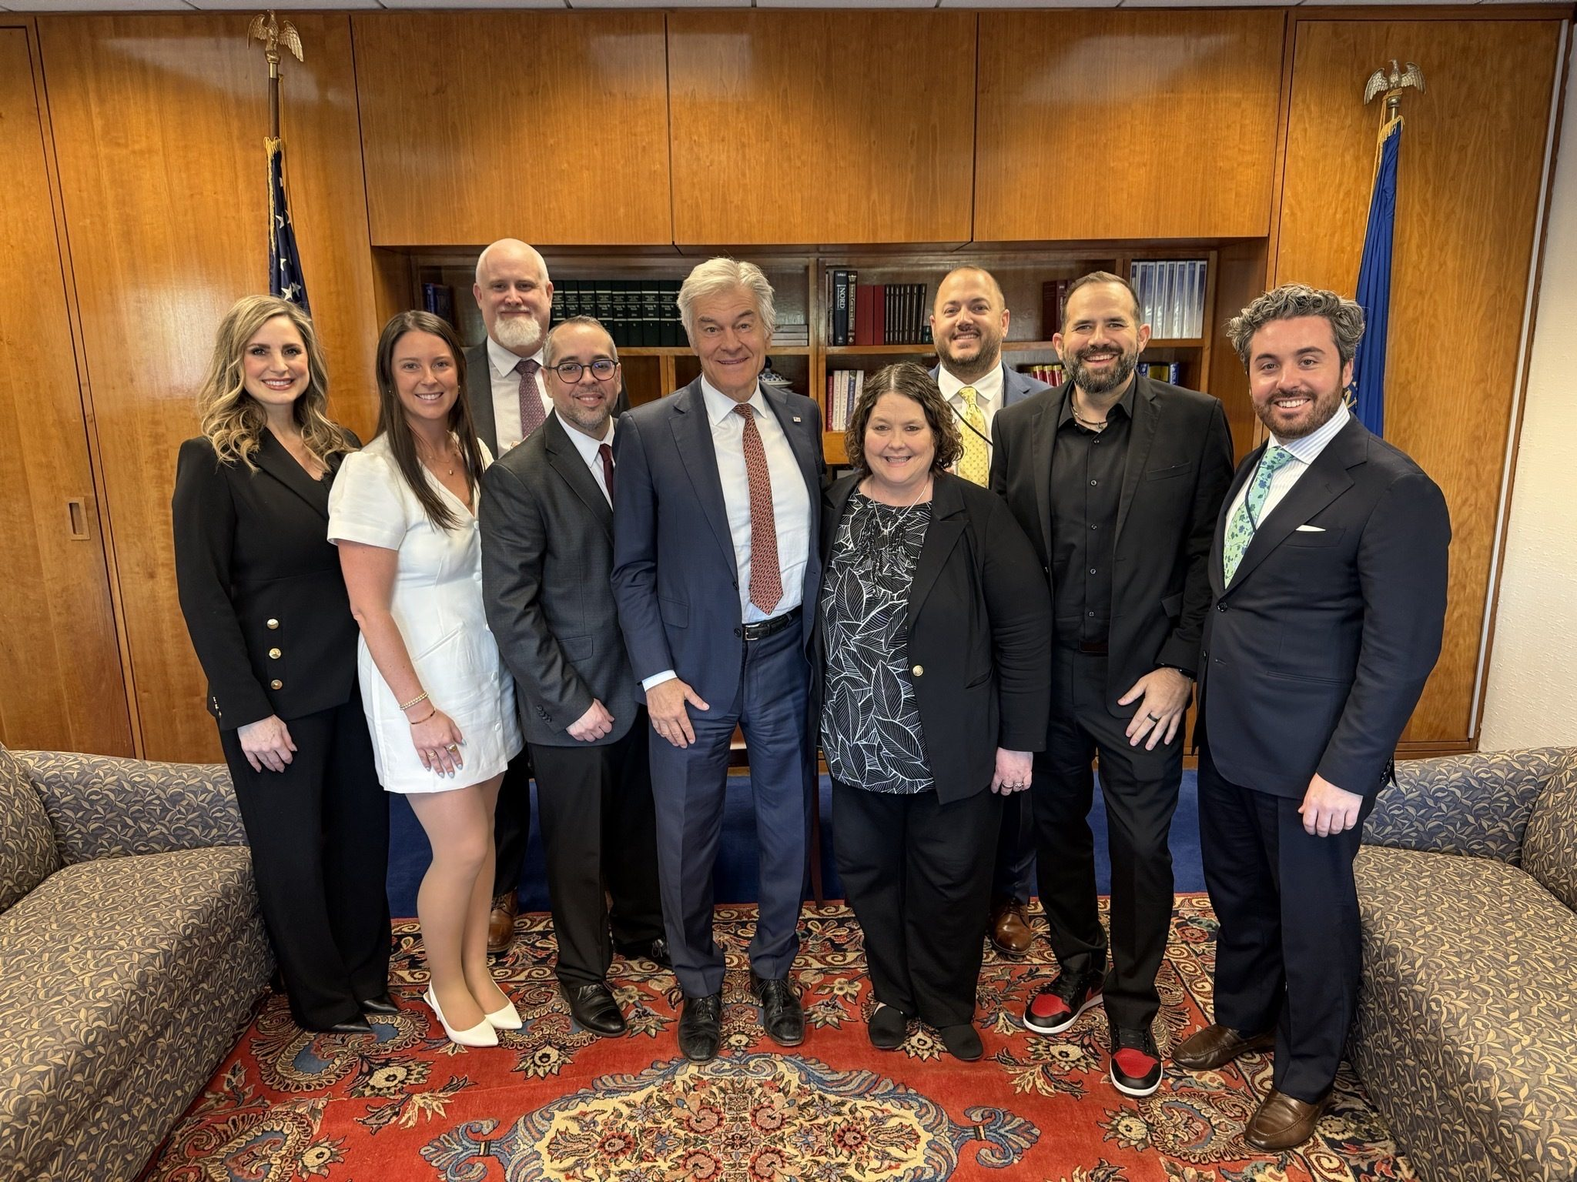
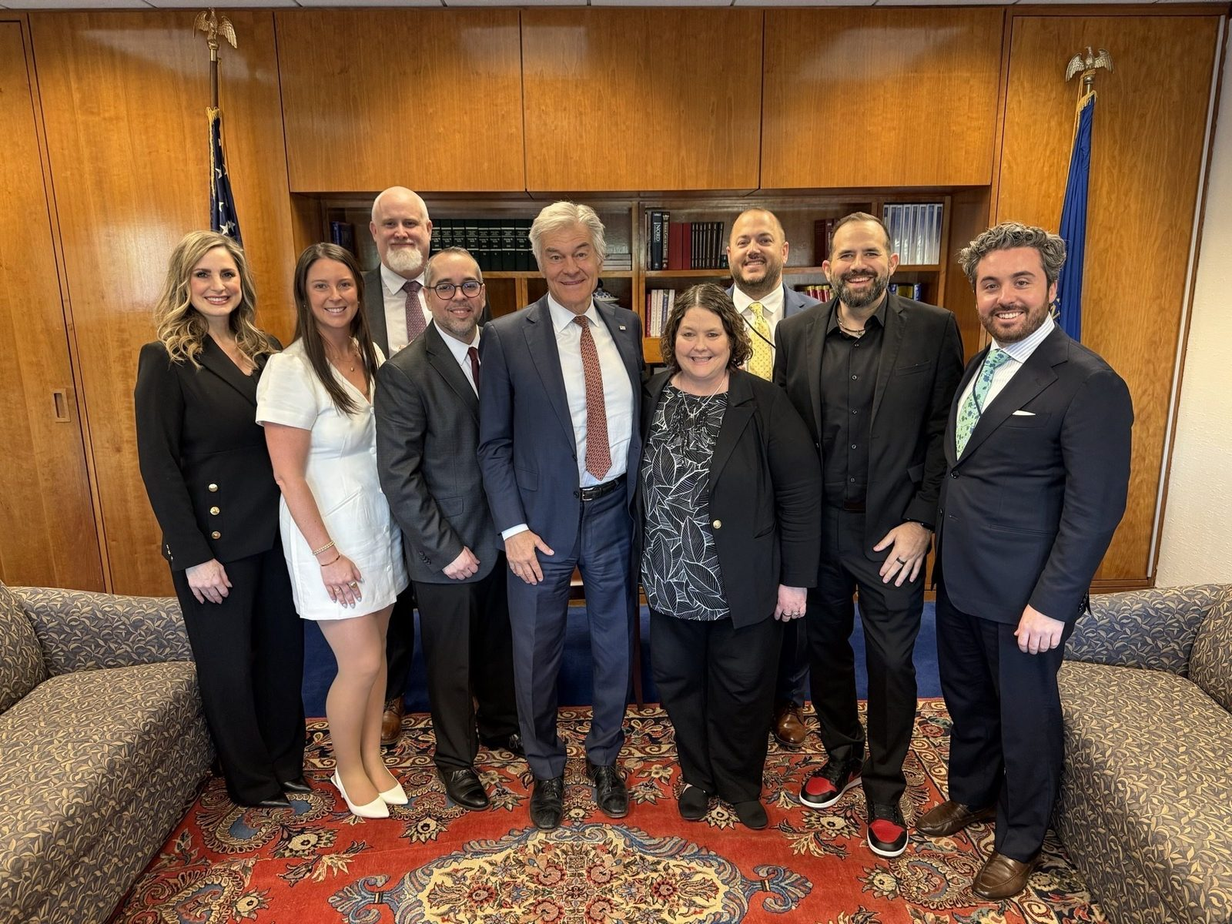
perf+a11y: responsive WebP hero, font preloads, deferred JS; focus not hidden under sticky nav, reflow fixes

Changed region(s): [[0.5312, 0.4933, 0.5625, 0.5858], [0.5312, 0.6167, 0.5625, 0.6475]]

diff --git a/assets/css/ohtp-sxg-c4f4t-CK.css b/assets/css/ohtp-sxg-c4f4t-CK.css
@@ -6,7 +6,7 @@
 /* @license GPL-2.0-or-later https://www.drupal.org/licensing/faq */
 .ohtp-page{--cms-color-primary:#015390;--cms-color-accent-warm:#f3ce3b;--cms-color-accent-cool:#009ad0;--cms-color-ink:#1b1b1b;--cms-color-base:#4a4f55;--cms-color-base-lighter:#d4d9df;--cms-color-base-lightest:#f2f4f7;--cms-color-white:#ffffff;--cms-font-heading:"Lexend","Public Sans",system-ui,-apple-system,"Segoe UI",Arial,sans-serif;--cms-font-body:"Public Sans",system-ui,-apple-system,"Segoe UI",Arial,sans-serif;--cms-type-2xs:.875rem;--cms-type-xs:1rem;--cms-type-sm:1.0625rem;--cms-type-md:1.25rem;--cms-type-lg:clamp(1.375rem,1.1rem + 1vw,1.75rem);--cms-type-xl:clamp(1.75rem,1.3rem + 1.8vw,2.5rem);--cms-type-2xl:clamp(2.25rem,1.5rem + 3vw,3.75rem);--cms-type-display:clamp(2.5rem,1.4rem + 4.6vw,5.25rem);--cms-lh-heading:1.1;--cms-lh-body:1.6;--cms-measure:68ch;--cms-spacing-05:4px;--cms-spacing-1:8px;--cms-spacing-2:16px;--cms-spacing-3:24px;--cms-spacing-4:32px;--cms-spacing-5:40px;--cms-spacing-6:48px;--cms-spacing-8:64px;--cms-spacing-10:80px;--cms-spacing-12:96px;--cms-spacing-15:120px;--cms-section-pad:var(--cms-spacing-8);--cms-gutter:var(--cms-spacing-3);--cms-container:1200px;--cms-radius-md:4px;--cms-focus-width:3px;--cms-focus-offset:2px;--cms-focus-color:var(--cms-color-primary);--cms-localnav-height:64px;--color-primary:var(--cms-color-primary);--color-primary-darkest:var(--cms-color-ink);--color-base:var(--cms-color-ink);--color-border:var(--cms-color-base-lighter);--color-background-inverse:var(--cms-color-primary);--font-body:var(--cms-font-body);--font-heading:var(--cms-font-heading);--radius-default:var(--cms-radius-md);}@media (min-width:64em){.ohtp-page{--cms-section-pad:var(--cms-spacing-15);--cms-gutter:var(--cms-spacing-5)}}
 html{scroll-behavior:smooth}@media (prefers-reduced-motion:reduce){html{scroll-behavior:auto}}.ohtp-page{font-family:var(--cms-font-body);font-size:var(--cms-type-sm);line-height:var(--cms-lh-body);color:var(--cms-color-ink);background:var(--cms-color-white)}.ohtp-page *,.ohtp-page *::before,.ohtp-page *::after{box-sizing:border-box}.ohtp-page img{max-width:100%;height:auto;display:block}.ohtp-page h1,.ohtp-page h2,.ohtp-page h3{font-family:var(--cms-font-heading);line-height:var(--cms-lh-heading);margin:0;font-weight:600;letter-spacing:-.01em}.ohtp-page p{margin:0 0 var(--cms-spacing-2);max-width:var(--cms-measure)}.ohtp-page a{color:var(--cms-color-primary);text-underline-offset:.18em;text-decoration-thickness:1px}.ohtp-page a:hover{text-decoration-thickness:2px;color:var(--cms-color-ink)}.ohtp-page :focus-visible{outline:var(--cms-focus-width) solid var(--cms-focus-color);outline-offset:var(--cms-focus-offset)}.ohtp-page .ohtp-section--bg-dark{--cms-focus-color:var(--cms-color-accent-warm)}.ohtp-page .usa-sr-only,.ohtp-page .visually-hidden{position:absolute!important;width:1px;height:1px;margin:-1px;padding:0;overflow:hidden;clip:rect(0,0,0,0);white-space:nowrap;border:0}.ohtp-container{max-width:var(--cms-container);margin:0 auto;padding:0 var(--cms-gutter)}.ohtp-page [id]{scroll-margin-top:var(--cms-localnav-height)}
-.usa-skipnav{position:absolute;left:var(--cms-spacing-1);top:-100px;z-index:100;background:var(--cms-color-white);color:var(--cms-color-primary);padding:var(--cms-spacing-1) var(--cms-spacing-2);font-weight:700}.usa-skipnav:focus{top:var(--cms-spacing-1)}.usa-banner{background:var(--cms-color-base-lightest);font-size:.8125rem;line-height:1.4}.usa-banner__header{display:flex;align-items:center;gap:var(--cms-spacing-1);flex-wrap:wrap;min-height:32px;padding:var(--cms-spacing-05) 0}.usa-banner__header img{width:16px;height:11px}.usa-banner details summary{list-style:none;cursor:pointer;color:var(--cms-color-primary);text-decoration:underline;display:inline-flex;align-items:center;min-height:24px;gap:4px}.usa-banner details summary::-webkit-details-marker{display:none}.usa-banner details summary::after{content:"";width:8px;height:8px;border-right:2px solid currentColor;border-bottom:2px solid currentColor;transform:rotate(45deg) translateY(-2px);margin-left:4px}.usa-banner details[open] summary::after{transform:rotate(-135deg)}.usa-banner__content{display:grid;gap:var(--cms-spacing-3);padding:var(--cms-spacing-2) 0 var(--cms-spacing-3);font-size:.9375rem}.usa-banner__guidance{display:flex;gap:var(--cms-spacing-2);align-items:flex-start}.usa-banner__guidance img{width:40px;height:40px;flex:none}.usa-banner__guidance p{margin:0}@media (min-width:40em){.usa-banner__content{grid-template-columns:1fr 1fr}}.cms-header{border-bottom:1px solid var(--cms-color-base-lighter)}.cms-header__inner{display:flex;flex-wrap:wrap;align-items:center;justify-content:space-between;gap:0 var(--cms-spacing-4)}.cms-header__brand{display:flex;align-items:center;gap:var(--cms-logo-clearspace);padding:var(--cms-logo-clearspace) 0;text-decoration:none;color:var(--cms-color-ink)}.cms-header__logo{width:var(--cms-logo-width);min-width:120px;height:auto}.cms-header__tagline{display:none;font-family:var(--cms-font-heading);font-size:var(--cms-type-xs);font-weight:500;color:var(--cms-color-ink)}@media (min-width:48em){.cms-header__tagline{display:block}}.cms-header__utility{display:flex;gap:var(--cms-spacing-3);list-style:none;margin:0 0 var(--cms-spacing-2);padding:0;font-size:var(--cms-type-2xs)}@media (min-width:48em){.cms-header__utility{margin:0}}.cms-header__utility a{color:var(--cms-color-ink);text-decoration:none;display:inline-flex;align-items:center;min-height:44px}.cms-header__utility a:hover{text-decoration:underline}.cms-footer{background:var(--cms-color-primary);color:var(--cms-color-white);font-size:var(--cms-type-2xs)}.cms-footer a{color:var(--cms-color-white)}.cms-footer a:hover{color:var(--cms-color-accent-warm)}.cms-footer__nav{display:grid;gap:var(--cms-spacing-4);padding:var(--cms-spacing-8) 0 var(--cms-spacing-5);grid-template-columns:1fr 1fr}@media (min-width:64em){.cms-footer__nav{grid-template-columns:repeat(5,1fr)}}.cms-footer h2{font-family:var(--cms-font-heading);font-size:var(--cms-type-xs);font-weight:600;margin-bottom:var(--cms-spacing-2)}.cms-footer ul{list-style:none;margin:0;padding:0}.cms-footer li a{display:inline-flex;min-height:32px;align-items:center}.cms-footer__identity{border-top:1px solid rgba(255,255,255,.35);padding:var(--cms-spacing-4) 0 var(--cms-spacing-6);display:flex;flex-wrap:wrap;gap:var(--cms-spacing-3);align-items:center}.cms-footer__hhs{background:var(--cms-color-white);padding:var(--cms-spacing-1);border-radius:var(--cms-radius-md);line-height:0}.cms-footer__identity p{margin:0}.cms-footer__social{list-style:none;display:flex;flex-wrap:wrap;gap:var(--cms-spacing-1) var(--cms-spacing-3);margin:0;padding:0}@media (min-width:64em){.cms-footer__social{margin-left:auto}}.cms-footer__social a{display:inline-flex;min-height:44px;align-items:center;font-weight:700}.cms-evo-stub-notice{background:var(--cms-color-ink);color:var(--cms-color-white);font-size:.75rem;text-align:center;padding:4px 8px;font-family:var(--cms-font-body)}.cms-evo-main{display:block}.cms-evo-main:focus{outline:none}
+.usa-skipnav{position:absolute;left:var(--cms-spacing-1);top:-100px;z-index:100;background:var(--cms-color-white);color:var(--cms-color-primary);padding:var(--cms-spacing-1) var(--cms-spacing-2);font-weight:700}.usa-skipnav:focus{top:var(--cms-spacing-1)}.usa-banner{background:var(--cms-color-base-lightest);font-size:.8125rem;line-height:1.4}.usa-banner__header{display:flex;align-items:center;gap:var(--cms-spacing-1);flex-wrap:wrap;min-height:32px;padding:var(--cms-spacing-05) 0}.usa-banner__header img{width:16px;height:11px}.usa-banner details summary{list-style:none;cursor:pointer;color:var(--cms-color-primary);text-decoration:underline;display:inline-flex;align-items:center;min-height:24px;gap:4px}.usa-banner details summary::-webkit-details-marker{display:none}.usa-banner details summary::after{content:"";width:8px;height:8px;border-right:2px solid currentColor;border-bottom:2px solid currentColor;transform:rotate(45deg) translateY(-2px);margin-left:4px}.usa-banner details[open] summary::after{transform:rotate(-135deg)}.usa-banner__content{display:grid;gap:var(--cms-spacing-3);padding:var(--cms-spacing-2) 0 var(--cms-spacing-3);font-size:.9375rem}.usa-banner__guidance{display:flex;gap:var(--cms-spacing-2);align-items:flex-start}.usa-banner__guidance img{width:40px;height:40px;flex:none}.usa-banner__guidance p{margin:0}@media (min-width:40em){.usa-banner__content{grid-template-columns:1fr 1fr}}.cms-header{border-bottom:1px solid var(--cms-color-base-lighter)}.cms-header__inner{display:flex;flex-wrap:wrap;align-items:center;justify-content:space-between;gap:0 var(--cms-spacing-4)}.cms-header__brand{display:flex;align-items:center;gap:var(--cms-logo-clearspace);padding:var(--cms-logo-clearspace) 0;text-decoration:none;color:var(--cms-color-ink)}.cms-header__logo{width:var(--cms-logo-width);min-width:120px;height:auto}.cms-header__tagline{display:none;font-family:var(--cms-font-heading);font-size:var(--cms-type-xs);font-weight:500;color:var(--cms-color-ink)}@media (min-width:48em){.cms-header__tagline{display:block}}.cms-header__utility{display:flex;gap:var(--cms-spacing-3);list-style:none;margin:0 0 var(--cms-spacing-2);padding:0;font-size:var(--cms-type-2xs)}@media (min-width:48em){.cms-header__utility{margin:0}}.cms-header__utility a{color:var(--cms-color-ink);text-decoration:none;display:inline-flex;align-items:center;min-height:44px}.cms-header__utility a:hover{text-decoration:underline}.cms-footer{background:var(--cms-color-primary);color:var(--cms-color-white);font-size:var(--cms-type-2xs)}.cms-footer a{color:var(--cms-color-white)}.cms-footer a:hover{color:var(--cms-color-accent-warm)}.cms-footer__nav{display:grid;gap:var(--cms-spacing-4);padding:var(--cms-spacing-8) 0 var(--cms-spacing-5);grid-template-columns:repeat(2,minmax(0,1fr))}.cms-footer__nav>nav,.ohtp-stat-band__list li{min-width:0;overflow-wrap:break-word}@media (min-width:64em){.cms-footer__nav{grid-template-columns:repeat(5,1fr)}}.cms-footer h2{font-family:var(--cms-font-heading);font-size:var(--cms-type-xs);font-weight:600;margin-bottom:var(--cms-spacing-2)}.cms-footer ul{list-style:none;margin:0;padding:0}.cms-footer li a{display:inline-flex;min-height:32px;align-items:center}.cms-footer__identity{border-top:1px solid rgba(255,255,255,.35);padding:var(--cms-spacing-4) 0 var(--cms-spacing-6);display:flex;flex-wrap:wrap;gap:var(--cms-spacing-3);align-items:center}.cms-footer__hhs{background:var(--cms-color-white);padding:var(--cms-spacing-1);border-radius:var(--cms-radius-md);line-height:0}.cms-footer__identity p{margin:0}.cms-footer__social{list-style:none;display:flex;flex-wrap:wrap;gap:var(--cms-spacing-1) var(--cms-spacing-3);margin:0;padding:0}@media (min-width:64em){.cms-footer__social{margin-left:auto}}.cms-footer__social a{display:inline-flex;min-height:44px;align-items:center;font-weight:700}.cms-evo-stub-notice{background:var(--cms-color-ink);color:var(--cms-color-white);font-size:.75rem;text-align:center;padding:4px 8px;font-family:var(--cms-font-body)}.cms-evo-main{display:block}.cms-evo-main:focus{outline:none}
 .ohtp-band{padding:var(--cms-section-pad) 0}.ohtp-section--bg-tint{background:var(--cms-color-base-lightest)}.ohtp-section--bg-dark{background:var(--cms-color-primary);color:var(--cms-color-white)}.ohtp-section--bg-dark a{color:var(--cms-color-white)}.ohtp-section--bg-dark a:hover{color:var(--cms-color-accent-warm)}.ohtp-kicker{display:flex;align-items:center;gap:var(--cms-spacing-2);font-family:var(--cms-font-heading);font-size:var(--cms-type-2xs);font-weight:600;letter-spacing:.06em;text-transform:uppercase;color:var(--cms-color-base);margin:0 0 var(--cms-spacing-2)}.ohtp-kicker::before{content:"";width:var(--cms-spacing-5);height:4px;background:var(--cms-color-accent-warm);flex:none}.ohtp-section--bg-dark .ohtp-kicker{color:var(--cms-color-white)}.ohtp-page .ohtp-section-head .ohtp-kicker{font-size:var(--cms-type-md);margin-top:var(--cms-spacing-2)}.ohtp-page .ohtp-split__text .ohtp-kicker{font-size:var(--cms-type-md)}.ohtp-section-head{margin-bottom:var(--cms-spacing-6);max-width:52rem}.ohtp-section-head__title{font-size:var(--cms-type-2xl);color:var(--cms-color-primary)}.ohtp-section--bg-dark .ohtp-section-head__title{color:var(--cms-color-white)}.ohtp-section-head__intro{margin-top:var(--cms-spacing-2)}.ohtp-section-head__intro p{font-size:var(--cms-type-md);color:var(--cms-color-base)}.ohtp-page .usa-button{display:inline-flex;align-items:center;justify-content:center;gap:var(--cms-spacing-1);min-height:44px;margin:0;padding:var(--cms-spacing-1) var(--cms-spacing-3);border-radius:var(--cms-radius-md);font-family:var(--cms-font-body);font-weight:700;font-size:var(--cms-type-xs);line-height:1.2;text-decoration:none;background:var(--cms-color-primary);color:var(--cms-color-white);border:2px solid var(--cms-color-primary);transition:background-color .15s,color .15s;width:auto}.ohtp-page .usa-button:hover{background:var(--cms-color-ink);border-color:var(--cms-color-ink);color:var(--cms-color-white)}.ohtp-page .usa-button--big{min-height:56px;padding:var(--cms-spacing-2) var(--cms-spacing-4);font-size:var(--cms-type-md)}.ohtp-page .usa-button--sm{min-height:40px;padding:var(--cms-spacing-1) var(--cms-spacing-2);font-size:var(--cms-type-2xs);white-space:nowrap}.ohtp-page .usa-button--accent-warm{background:var(--cms-color-accent-warm);border-color:var(--cms-color-accent-warm);color:var(--cms-color-ink)}@media (prefers-reduced-motion:reduce){.ohtp-page .usa-button{transition:none}}
 @media (prefers-reduced-motion:no-preference){.ohtp-motion .ohtp-reveal{opacity:0;transform:translateY(24px);transition:opacity .7s ease,transform .7s cubic-bezier(.2,.7,.2,1)}.ohtp-motion .ohtp-reveal.is-visible{opacity:1;transform:none}.ohtp-motion .ohtp-hero__rule{animation:ohtp-draw .9s .3s cubic-bezier(.2,.7,.2,1) both}@keyframes ohtp-draw{from{transform:scaleX(0)}to{transform:scaleX(1)}}}
 .ohtp-page .usa-card-group{list-style:none;margin:0;padding:0;display:grid;gap:var(--cms-spacing-3)}@media (min-width:40em){.ohtp-page .usa-card-group{grid-template-columns:repeat(2,1fr)}}@media (min-width:64em){.ohtp-page .usa-card-group{grid-template-columns:repeat(4,1fr)}}.ohtp-page .usa-card{margin:0;padding:0;max-width:none}.ohtp-page .usa-card__container{height:100%;margin:0;display:flex;flex-direction:column;background:var(--cms-color-white);border:1px solid var(--cms-color-base-lighter);border-top:4px solid var(--cms-color-primary);border-radius:var(--cms-radius-md);padding:var(--cms-spacing-3);transition:transform .2s ease,box-shadow .2s ease}.ohtp-page .usa-card__container:hover{transform:translateY(-2px);box-shadow:0 8px 24px rgba(27,27,27,.08)}.ohtp-page .usa-card__header,.ohtp-page .usa-card__body,.ohtp-page .usa-card__footer{padding:0}.ohtp-page .usa-card__heading{font-size:var(--cms-type-md);margin-bottom:var(--cms-spacing-1)}.ohtp-page .usa-card__body{flex:1}.ohtp-page .usa-card__body p{margin:0;font-size:var(--cms-type-xs);color:var(--cms-color-base)}.ohtp-page .usa-card__footer{margin-top:var(--cms-spacing-2);font-size:var(--cms-type-2xs);font-weight:700}.ohtp-page .usa-card__footer a{display:inline-flex;min-height:24px;align-items:center}@media (prefers-reduced-motion:reduce){.ohtp-page .usa-card__container{transition:none}.ohtp-page .usa-card__container:hover{transform:none}}
@@ -17,6 +17,9 @@ html{scroll-behavior:smooth}@media (prefers-reduced-motion:reduce){html{scroll-b
 .ohtp-localnav{position:sticky;top:0;z-index:20;background:rgba(255,255,255,.97);border-bottom:1px solid var(--cms-color-base-lighter)}.ohtp-localnav__inner{display:flex;align-items:center;gap:var(--cms-spacing-2);min-height:var(--cms-localnav-height)}.ohtp-page .ohtp-localnav__title{font-family:var(--cms-font-heading);font-weight:600;font-size:var(--cms-type-2xs);color:var(--cms-color-primary);margin:0 auto 0 0;line-height:1.25}.ohtp-localnav__links{display:none;list-style:none;margin:0;padding:0;gap:var(--cms-spacing-3)}.ohtp-page .ohtp-localnav__links a{color:var(--cms-color-ink);text-decoration:none;font-size:var(--cms-type-2xs);display:inline-flex;min-height:44px;align-items:center;border-bottom:3px solid transparent}.ohtp-page .ohtp-localnav__links a:hover,.ohtp-page .ohtp-localnav__links a[aria-current="true"]{border-bottom-color:var(--cms-color-accent-cool);text-decoration:underline;text-decoration-thickness:1px}@media (min-width:64em){.ohtp-localnav__links{display:flex}.ohtp-page .ohtp-localnav__title{font-size:var(--cms-type-xs)}}
 .ohtp-stat{display:grid;gap:var(--cms-spacing-4);align-items:end}.ohtp-page .ohtp-stat__number{font-family:var(--cms-font-heading);font-size:clamp(3.5rem,2rem + 7vw,8.5rem);line-height:.95;font-weight:600;color:var(--cms-color-primary);letter-spacing:-.03em;margin:0}.ohtp-page .ohtp-stat__label{font-size:var(--cms-type-md);margin:0 0 var(--cms-spacing-2)}@media (min-width:64em){.ohtp-stat{grid-template-columns:auto 1fr;gap:var(--cms-spacing-8)}}
 .ohtp-program-strip{padding:var(--cms-spacing-4) 0}.ohtp-program-strip__inner{display:grid;gap:var(--cms-spacing-2)}.ohtp-page .ohtp-program-strip__label{margin:0;font-size:var(--cms-type-2xs);text-transform:uppercase;letter-spacing:.06em;font-family:var(--cms-font-heading);font-weight:500}.ohtp-program-strip__list{list-style:none;margin:0;padding:0;display:flex;flex-wrap:wrap;gap:var(--cms-spacing-1) var(--cms-spacing-4);font-family:var(--cms-font-heading);font-size:var(--cms-type-lg);font-weight:500;line-height:1.6}.ohtp-program-strip__list li{display:flex;align-items:center;gap:var(--cms-spacing-2)}.ohtp-program-strip__list li::before{content:"";width:6px;height:6px;border-radius:50%;background:var(--cms-color-accent-warm)}@media (min-width:64em){.ohtp-program-strip__inner{grid-template-columns:auto 1fr;align-items:center;gap:var(--cms-spacing-6)}}
-.ohtp-stat-band__list{list-style:none;margin:0;padding:0;display:grid;grid-template-columns:1fr 1fr;gap:var(--cms-spacing-5) var(--cms-spacing-3)}@media (min-width:64em){.ohtp-stat-band__list{grid-template-columns:repeat(4,1fr)}}.ohtp-stat-band__list li{border-top:1px solid rgba(255,255,255,.5);padding-top:var(--cms-spacing-2)}.ohtp-stat-band__num{display:block;white-space:nowrap;font-family:var(--cms-font-heading);font-size:clamp(1.75rem,1.2rem + 2.4vw,3.25rem);font-weight:600;color:var(--cms-color-accent-warm);line-height:1.05}.ohtp-stat-band__label{display:block;margin-top:var(--cms-spacing-1);font-size:var(--cms-type-xs)}.ohtp-page .ohtp-stat-band__label p{margin:0}.ohtp-page .ohtp-stat-band__more{margin-top:var(--cms-spacing-6)}.ohtp-section--bg-dark .ohtp-section-head__intro p{color:var(--cms-color-white)}
+.ohtp-stat-band__list{list-style:none;margin:0;padding:0;display:grid;grid-template-columns:repeat(2,minmax(0,1fr));gap:var(--cms-spacing-5) var(--cms-spacing-3)}@media (min-width:64em){.ohtp-stat-band__list{grid-template-columns:repeat(4,1fr)}}.ohtp-stat-band__list li{border-top:1px solid rgba(255,255,255,.5);padding-top:var(--cms-spacing-2)}.ohtp-stat-band__num{display:block;white-space:nowrap;font-family:var(--cms-font-heading);font-size:clamp(1.75rem,1.2rem + 2.4vw,3.25rem);font-weight:600;color:var(--cms-color-accent-warm);line-height:1.05}.ohtp-stat-band__label{display:block;margin-top:var(--cms-spacing-1);font-size:var(--cms-type-xs)}.ohtp-page .ohtp-stat-band__label p{margin:0}.ohtp-page .ohtp-stat-band__more{margin-top:var(--cms-spacing-6)}.ohtp-section--bg-dark .ohtp-section-head__intro p{color:var(--cms-color-white)}
 .ohtp-page .usa-process-list{list-style:none;margin:0;padding:0;counter-reset:step;display:grid;gap:var(--cms-spacing-5);border:0}.ohtp-page .usa-process-list__item{counter-increment:step;position:relative;margin:0;padding:var(--cms-spacing-3) 0 0;border:0;border-top:4px solid var(--cms-color-primary)}.ohtp-page .usa-process-list__item::before{content:counter(step,decimal-leading-zero);position:static;display:block;width:auto;height:auto;border:0;border-radius:0;background:none;box-shadow:none;font-family:var(--cms-font-heading);font-size:var(--cms-type-2xl);font-weight:600;color:var(--cms-color-primary);line-height:1;margin-bottom:var(--cms-spacing-2)}.ohtp-page .usa-process-list__heading{font-size:var(--cms-type-lg);margin-bottom:var(--cms-spacing-1)}.ohtp-page .usa-process-list__body p{margin:0;color:var(--cms-color-base)}@media (min-width:48em){.ohtp-page .usa-process-list{grid-template-columns:repeat(3,1fr)}}.ohtp-process-notes{display:grid;gap:var(--cms-spacing-3);margin-top:var(--cms-spacing-6)}.ohtp-page .ohtp-process-notes p{margin:0;padding-left:var(--cms-spacing-2);border-left:4px solid var(--cms-color-accent-cool);color:var(--cms-color-ink)}@media (min-width:48em){.ohtp-process-notes{grid-template-columns:1fr 1fr;gap:var(--cms-spacing-5)}}
-.ohtp-split{display:grid;gap:var(--cms-spacing-5)}.ohtp-page .ohtp-split__title{margin-bottom:var(--cms-spacing-3)}.ohtp-page .ohtp-split__text p{font-size:var(--cms-type-md)}@media (min-width:64em){.ohtp-split{grid-template-columns:1fr 1fr;gap:var(--cms-spacing-10);align-items:start}}.ohtp-page .usa-summary-box{background:var(--cms-color-white);border:0;border-left:8px solid var(--cms-color-accent-warm);padding:var(--cms-spacing-4);border-radius:var(--cms-radius-md);box-shadow:0 1px 0 var(--cms-color-base-lighter);color:var(--cms-color-ink)}.ohtp-page .usa-summary-box__heading{font-size:var(--cms-type-md);margin-bottom:var(--cms-spacing-2)}.ohtp-page .usa-summary-box .usa-list{margin:0;padding-left:1.25em}.ohtp-page .usa-summary-box li{margin-bottom:var(--cms-spacing-1);max-width:none}
+.ohtp-split{display:grid;grid-template-columns:minmax(0,1fr);gap:var(--cms-spacing-5)}.ohtp-page .ohtp-split__title{margin-bottom:var(--cms-spacing-3)}.ohtp-page .ohtp-split__text p{font-size:var(--cms-type-md)}@media (min-width:64em){.ohtp-split{grid-template-columns:1fr 1fr;gap:var(--cms-spacing-10);align-items:start}}.ohtp-page .usa-summary-box{background:var(--cms-color-white);border:0;border-left:8px solid var(--cms-color-accent-warm);padding:var(--cms-spacing-4);border-radius:var(--cms-radius-md);box-shadow:0 1px 0 var(--cms-color-base-lighter);color:var(--cms-color-ink)}.ohtp-page .usa-summary-box__heading{font-size:var(--cms-type-md);margin-bottom:var(--cms-spacing-2)}.ohtp-page .usa-summary-box .usa-list{margin:0;padding-left:1.25em}.ohtp-page .usa-summary-box li{margin-bottom:var(--cms-spacing-1);max-width:none}
+.cms-footer__nav a{overflow-wrap:anywhere}
+.ohtp-page a[href],.ohtp-page button,.ohtp-page summary{scroll-margin-top:calc(var(--cms-localnav-height) + 1rem)}
+.ohtp-page h1,.ohtp-page h2,.ohtp-page h3,.ohtp-stat-band__num{overflow-wrap:break-word}

diff --git a/index.html b/index.html
@@ -8,6 +8,9 @@
 <meta name="viewport" content="width=device-width, initial-scale=1.0" />
 
     <title>Join the Office of Health Technology and Products | CMS</title>
+    <link rel="icon" href="data:," />
+    <link rel="preload" href="assets/fonts/lexend-latin-600-normal.woff2" as="font" type="font/woff2" crossorigin />
+    <link rel="preload" href="assets/fonts/public-sans-latin-400-normal.woff2" as="font" type="font/woff2" crossorigin />
     <link rel="stylesheet" media="all" href="assets/css/ohtp-MUKo5Vr9y0D7.css" />
 <link rel="stylesheet" media="all" href="assets/css/ohtp-sxg-c4f4t-CK.css" />
 
@@ -70,7 +73,7 @@
       <div class="ohtp-hero__lede"><p>We’re bringing experienced technologists into CMS to work on some of the hardest problems in health care.</p></div>              <div class="ohtp-hero__actions">
           <a class="usa-button usa-button--big" href="https://www.cms.gov/ohtp-join-form?source=join-hero">Send us your information</a>          <p class="ohtp-hero__note">Opens the application form on Qualtrics</p>                  </div>
           </div>
-          <div class="ohtp-hero__media"><img src="assets/img/ohtp-team.jpg" width="1600" height="1200" alt="Members of the Office of Health Technology and Products team standing with CMS Administrator Dr. Mehmet Oz in his office."></div>
+          <div class="ohtp-hero__media"><picture><source type="image/webp" srcset="assets/img/ohtp-team-800.webp 800w, assets/img/ohtp-team-1200.webp 1200w, assets/img/ohtp-team-1600.webp 1600w" sizes="(min-width:80em) 520px, (min-width:64em) 42vw, calc(100vw - 48px)"><img src="assets/img/ohtp-team.jpg" width="1600" height="1200" decoding="async" fetchpriority="high" alt="Members of the Office of Health Technology and Products team standing with CMS Administrator Dr. Mehmet Oz in his office."></picture></div>
       </div>
 </section>
 <section class="ohtp-section ohtp-section--ohtp-program-strip ohtp-section--bg-dark ohtp-program-strip" aria-label="The work supports">
@@ -276,7 +279,7 @@
 </footer>
 
   </div>
-<script src="assets/js/ohtp-EhjKhk1kMHt3.js"></script>
+<script src="assets/js/ohtp-EhjKhk1kMHt3.js" defer></script>
 
   </body>
 </html>
